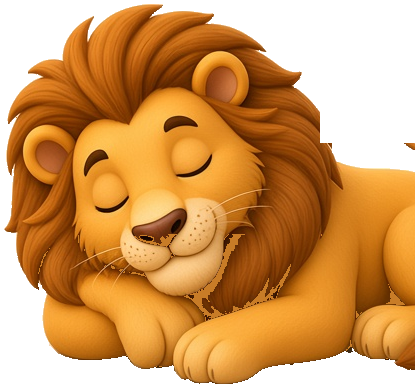
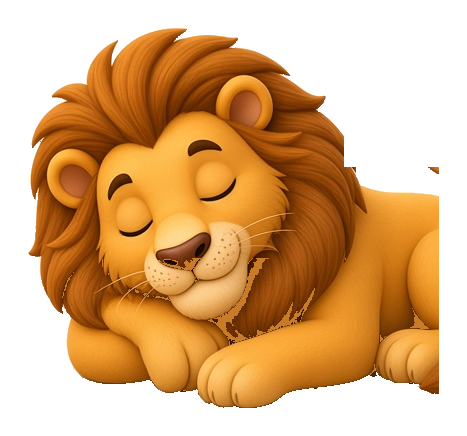
Pull the steep path camera back so nearest heads stay in frame.
Sit/sleep pets stand further down the stones, walk no longer starts on the
lens, and sit/sleep cutouts get transparent head padding. The sleeping tiger
keeps its full ear and muzzle. Forest stays on cute cutouts, not clay glTF.

diff --git a/web/src/world-exhibition/host-world.ts b/web/src/world-exhibition/host-world.ts
@@ -258,6 +258,21 @@ export const CREEK_CLEAR = 1.92
 /** 陆地动物固定世界身高。不按镜头距离放大，远处自然变矮。 */
 export const LAND_WORLD_SCALE = 1.12
 
+/** Sit/sleep further down the path so a steep camera + QR panel never clips a head. */
+export const PATH_WALK_MIN_U = 0.16
+export const PATH_WALK_MAX_U = 0.92
+export const PATH_SIT_U = 0.54
+export const PATH_REST_U = 0.4
+
+/** Steep look-front: nearest pet stays mid-path, camera pulled back. */
+export const LOOK_FRONT = {
+  lionU: 0.62,
+  deerU: 0.46,
+  tigerU: 0.32,
+  camY: 7.6,
+  camZ: 14.8,
+} as const
+
 export function pinLandScale(group: THREE.Object3D): void {
   group.scale.setScalar(LAND_WORLD_SCALE)
 }
@@ -884,16 +899,16 @@ export class HostWorld {
     const lion = byKind('lion')
     const deer = byKind('deer')
     const tiger = byKind('tiger')
-    if (lion) place(lion, 0.58, 0, 'sit')
-    if (deer) place(deer, 0.4, -0.08, 'sit')
-    if (tiger) place(tiger, 0.24, 0.12, 'rest')
+    if (lion) place(lion, LOOK_FRONT.lionU, 0, 'sit')
+    if (deer) place(deer, LOOK_FRONT.deerU, -0.08, 'sit')
+    if (tiger) place(tiger, LOOK_FRONT.tigerU, 0.12, 'rest')
     for (const actor of this.actors.values()) {
       if (actor.marine) continue
       if (actor !== lion && actor !== deer && actor !== tiger) actor.group.visible = false
     }
-    const look = pointOnPath(0.38, 0)
-    this.orbit.target.set(look.x, 0.22, look.z)
-    this.camera.position.set(look.x + 0.28, 6.4, look.z + 9.2)
+    const look = pointOnPath((LOOK_FRONT.tigerU + LOOK_FRONT.lionU) / 2, 0)
+    this.orbit.target.set(look.x, 0.32, look.z)
+    this.camera.position.set(look.x + 0.22, LOOK_FRONT.camY, look.z + LOOK_FRONT.camZ)
     this.syncOrbitFromCamera()
     this.reorientLand()
     return true
@@ -1042,7 +1057,7 @@ export class HostWorld {
       return
     }
     if (action === 'rest') {
-      const p = pointOnPath(0.28, actor.lane * 0.35)
+      const p = pointOnPath(PATH_REST_U, actor.lane * 0.35)
       const feet = keepOffCreek(p.x, p.z)
       actor.group.position.set(feet.x, 0.02, feet.z)
       const heading = landYaw('rest', p.heading, actor.lane)
@@ -1052,7 +1067,7 @@ export class HostWorld {
       return
     }
     if (action === 'sit') {
-      const p = pointOnPath(0.42, actor.lane * 0.35)
+      const p = pointOnPath(PATH_SIT_U, actor.lane * 0.35)
       const feet = keepOffCreek(p.x, p.z)
       actor.group.position.set(feet.x, 0, feet.z)
       const heading = landYaw('sit', p.heading, actor.lane)
@@ -1063,7 +1078,7 @@ export class HostWorld {
     }
 
     actor.angle += actor.speed * step
-    if (actor.angle > 0.92) actor.angle = 0.06
+    if (actor.angle > PATH_WALK_MAX_U) actor.angle = PATH_WALK_MIN_U
     const p = pointOnPath(actor.angle, actor.lane)
     const feet = keepOffCreek(p.x, p.z)
     actor.group.position.set(feet.x, 0.02, feet.z)

diff --git a/web/src/world-exhibition/host-world.test.ts b/web/src/world-exhibition/host-world.test.ts
@@ -4,6 +4,10 @@ import {
   CREEK_CLEAR,
   FOREST_CAMERA_PULL,
   LAND_WORLD_SCALE,
+  LOOK_FRONT,
+  PATH_REST_U,
+  PATH_SIT_U,
+  PATH_WALK_MIN_U,
   GROUND_RADIUS,
   LAND_BEATS,
   LAND_CYCLE,
@@ -149,6 +153,19 @@ describe('illustrated forest path', () => {
     expect(drink).not.toBeCloseTo(walk, 1)
     const sit = landYaw('sit', along.heading, 0)
     expect(Math.abs(sit - walk)).toBeGreaterThan(1)
+  })
+
+  it('keeps sit and sleep further down the path so heads clear the QR panel', () => {
+    expect(PATH_REST_U).toBeGreaterThanOrEqual(0.36)
+    expect(PATH_SIT_U).toBeGreaterThan(PATH_REST_U)
+    expect(PATH_WALK_MIN_U).toBeGreaterThanOrEqual(0.14)
+    expect(LOOK_FRONT.tigerU).toBeGreaterThanOrEqual(0.3)
+    expect(LOOK_FRONT.deerU).toBeGreaterThan(LOOK_FRONT.tigerU)
+    expect(LOOK_FRONT.lionU).toBeGreaterThan(LOOK_FRONT.deerU)
+    expect(LOOK_FRONT.camZ).toBeGreaterThan(12)
+    const near = pointOnPath(LOOK_FRONT.tigerU, 0)
+    expect(LOOK_FRONT.camZ).toBeGreaterThan(12)
+    expect(near.z).toBeLessThan(pointOnPath(PATH_WALK_MIN_U, 0).z)
   })
 
   it('keeps land pets at a constant world scale so distance shrinks height', () => {

diff --git a/web/scripts/extract-art-cutouts.py b/web/scripts/extract-art-cutouts.py
@@ -261,10 +261,36 @@ def connected_parts(im: Image.Image, n: int) -> list[Image.Image]:
 def save(im: Image.Image, name: str):
     OUT.mkdir(parents=True, exist_ok=True)
     MINI.mkdir(parents=True, exist_ok=True)
+    im = pad_headroom(im, 28)
     path = OUT / f"{name}.png"
     im.save(path, "PNG")
     im.save(MINI / f"{name}.png", "PNG")
     print(f"wrote {path} {im.size}")
+
+
+def pad_headroom(im: Image.Image, pad=28) -> Image.Image:
+    """Keep a transparent margin so mane/ears/nose are not flush with the texture edge."""
+    px = im.load()
+    w, h = im.size
+    minx, miny, maxx, maxy = w, h, 0, 0
+    for y in range(h):
+        for x in range(w):
+            if px[x, y][3] > 12:
+                minx = min(minx, x)
+                miny = min(miny, y)
+                maxx = max(maxx, x)
+                maxy = max(maxy, y)
+    if maxx <= minx:
+        return im
+    left = max(0, pad - minx)
+    top = max(0, pad - miny)
+    right = max(0, pad - (w - 1 - maxx))
+    bottom = max(0, pad - (h - 1 - maxy))
+    if left == top == right == bottom == 0:
+        return im
+    out = Image.new("RGBA", (w + left + right, h + top + bottom), (0, 0, 0, 0))
+    out.paste(im, (left, top), im)
+    return out
 
 
 # Lion sit box is wide enough for the curling tail (old 430 cut it off).
@@ -278,7 +304,7 @@ POSE_BOXES = {
     "sleep": {
         "lion": (4, 48, 502, 700),
         "deer": (548, 50, 800, 680),
-        "tiger": (872, 40, 1276, 712),
+        "tiger": (838, 40, 1276, 712),
     },
 }
 
